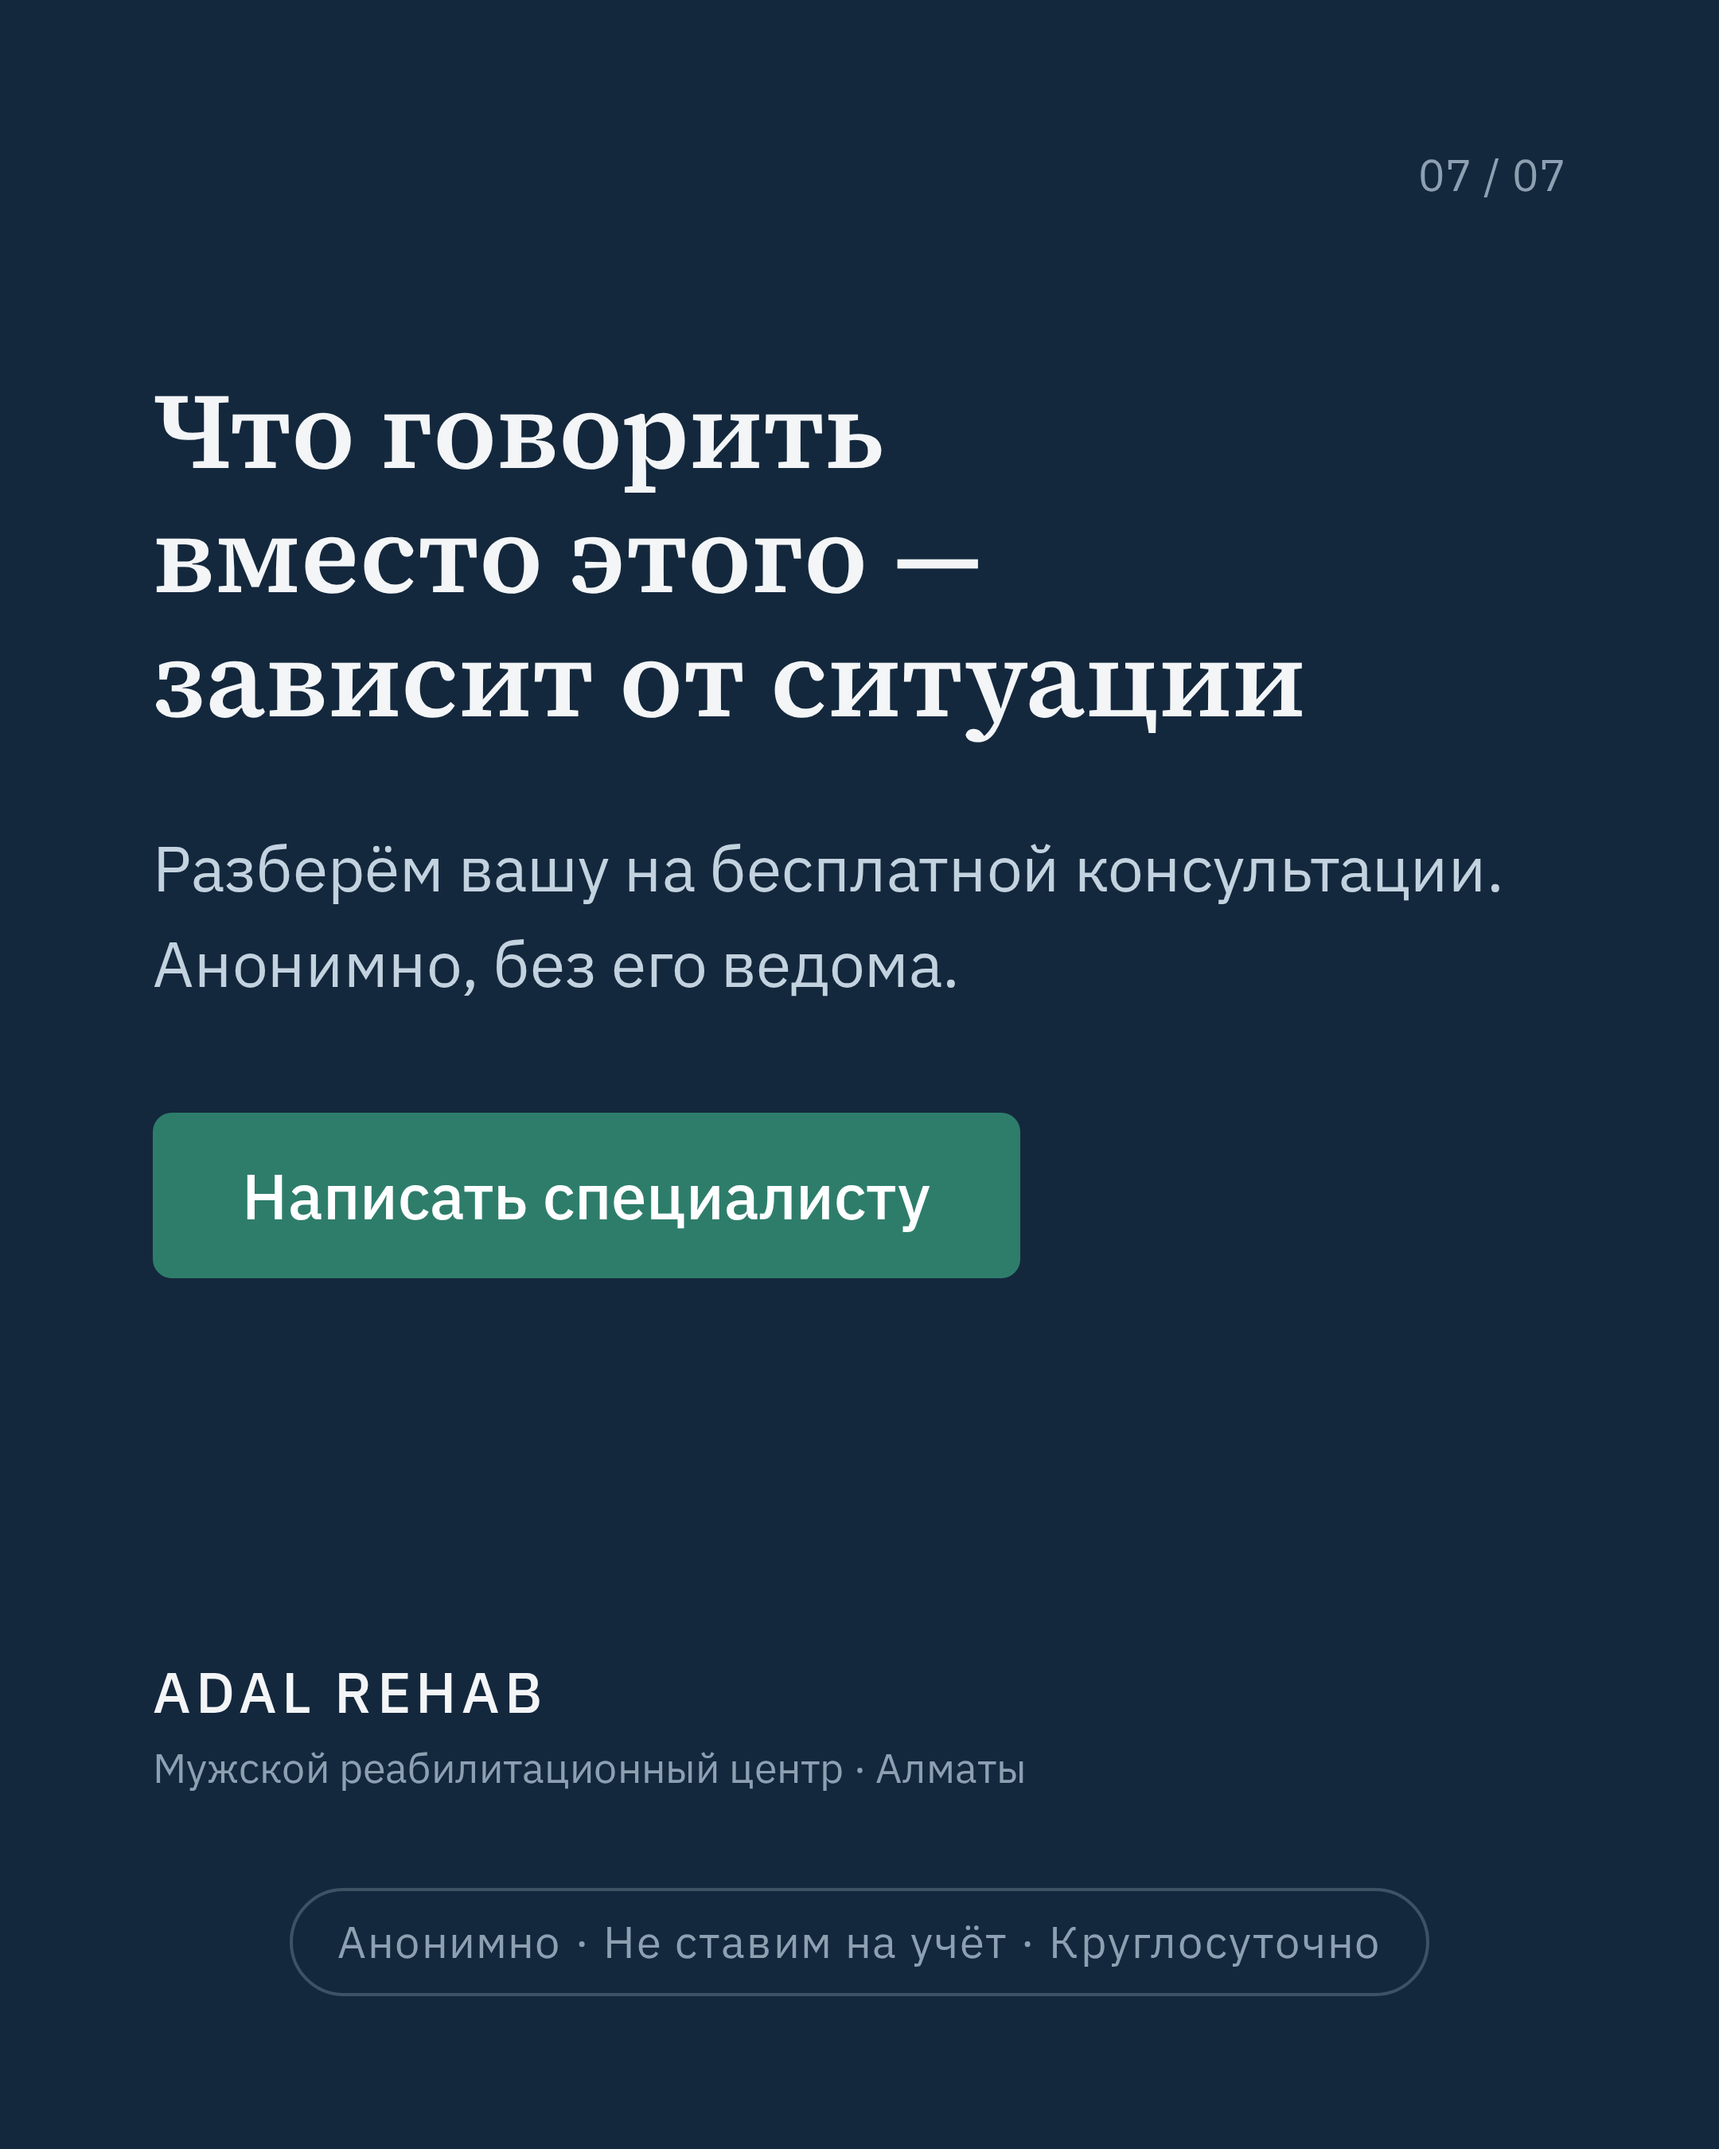
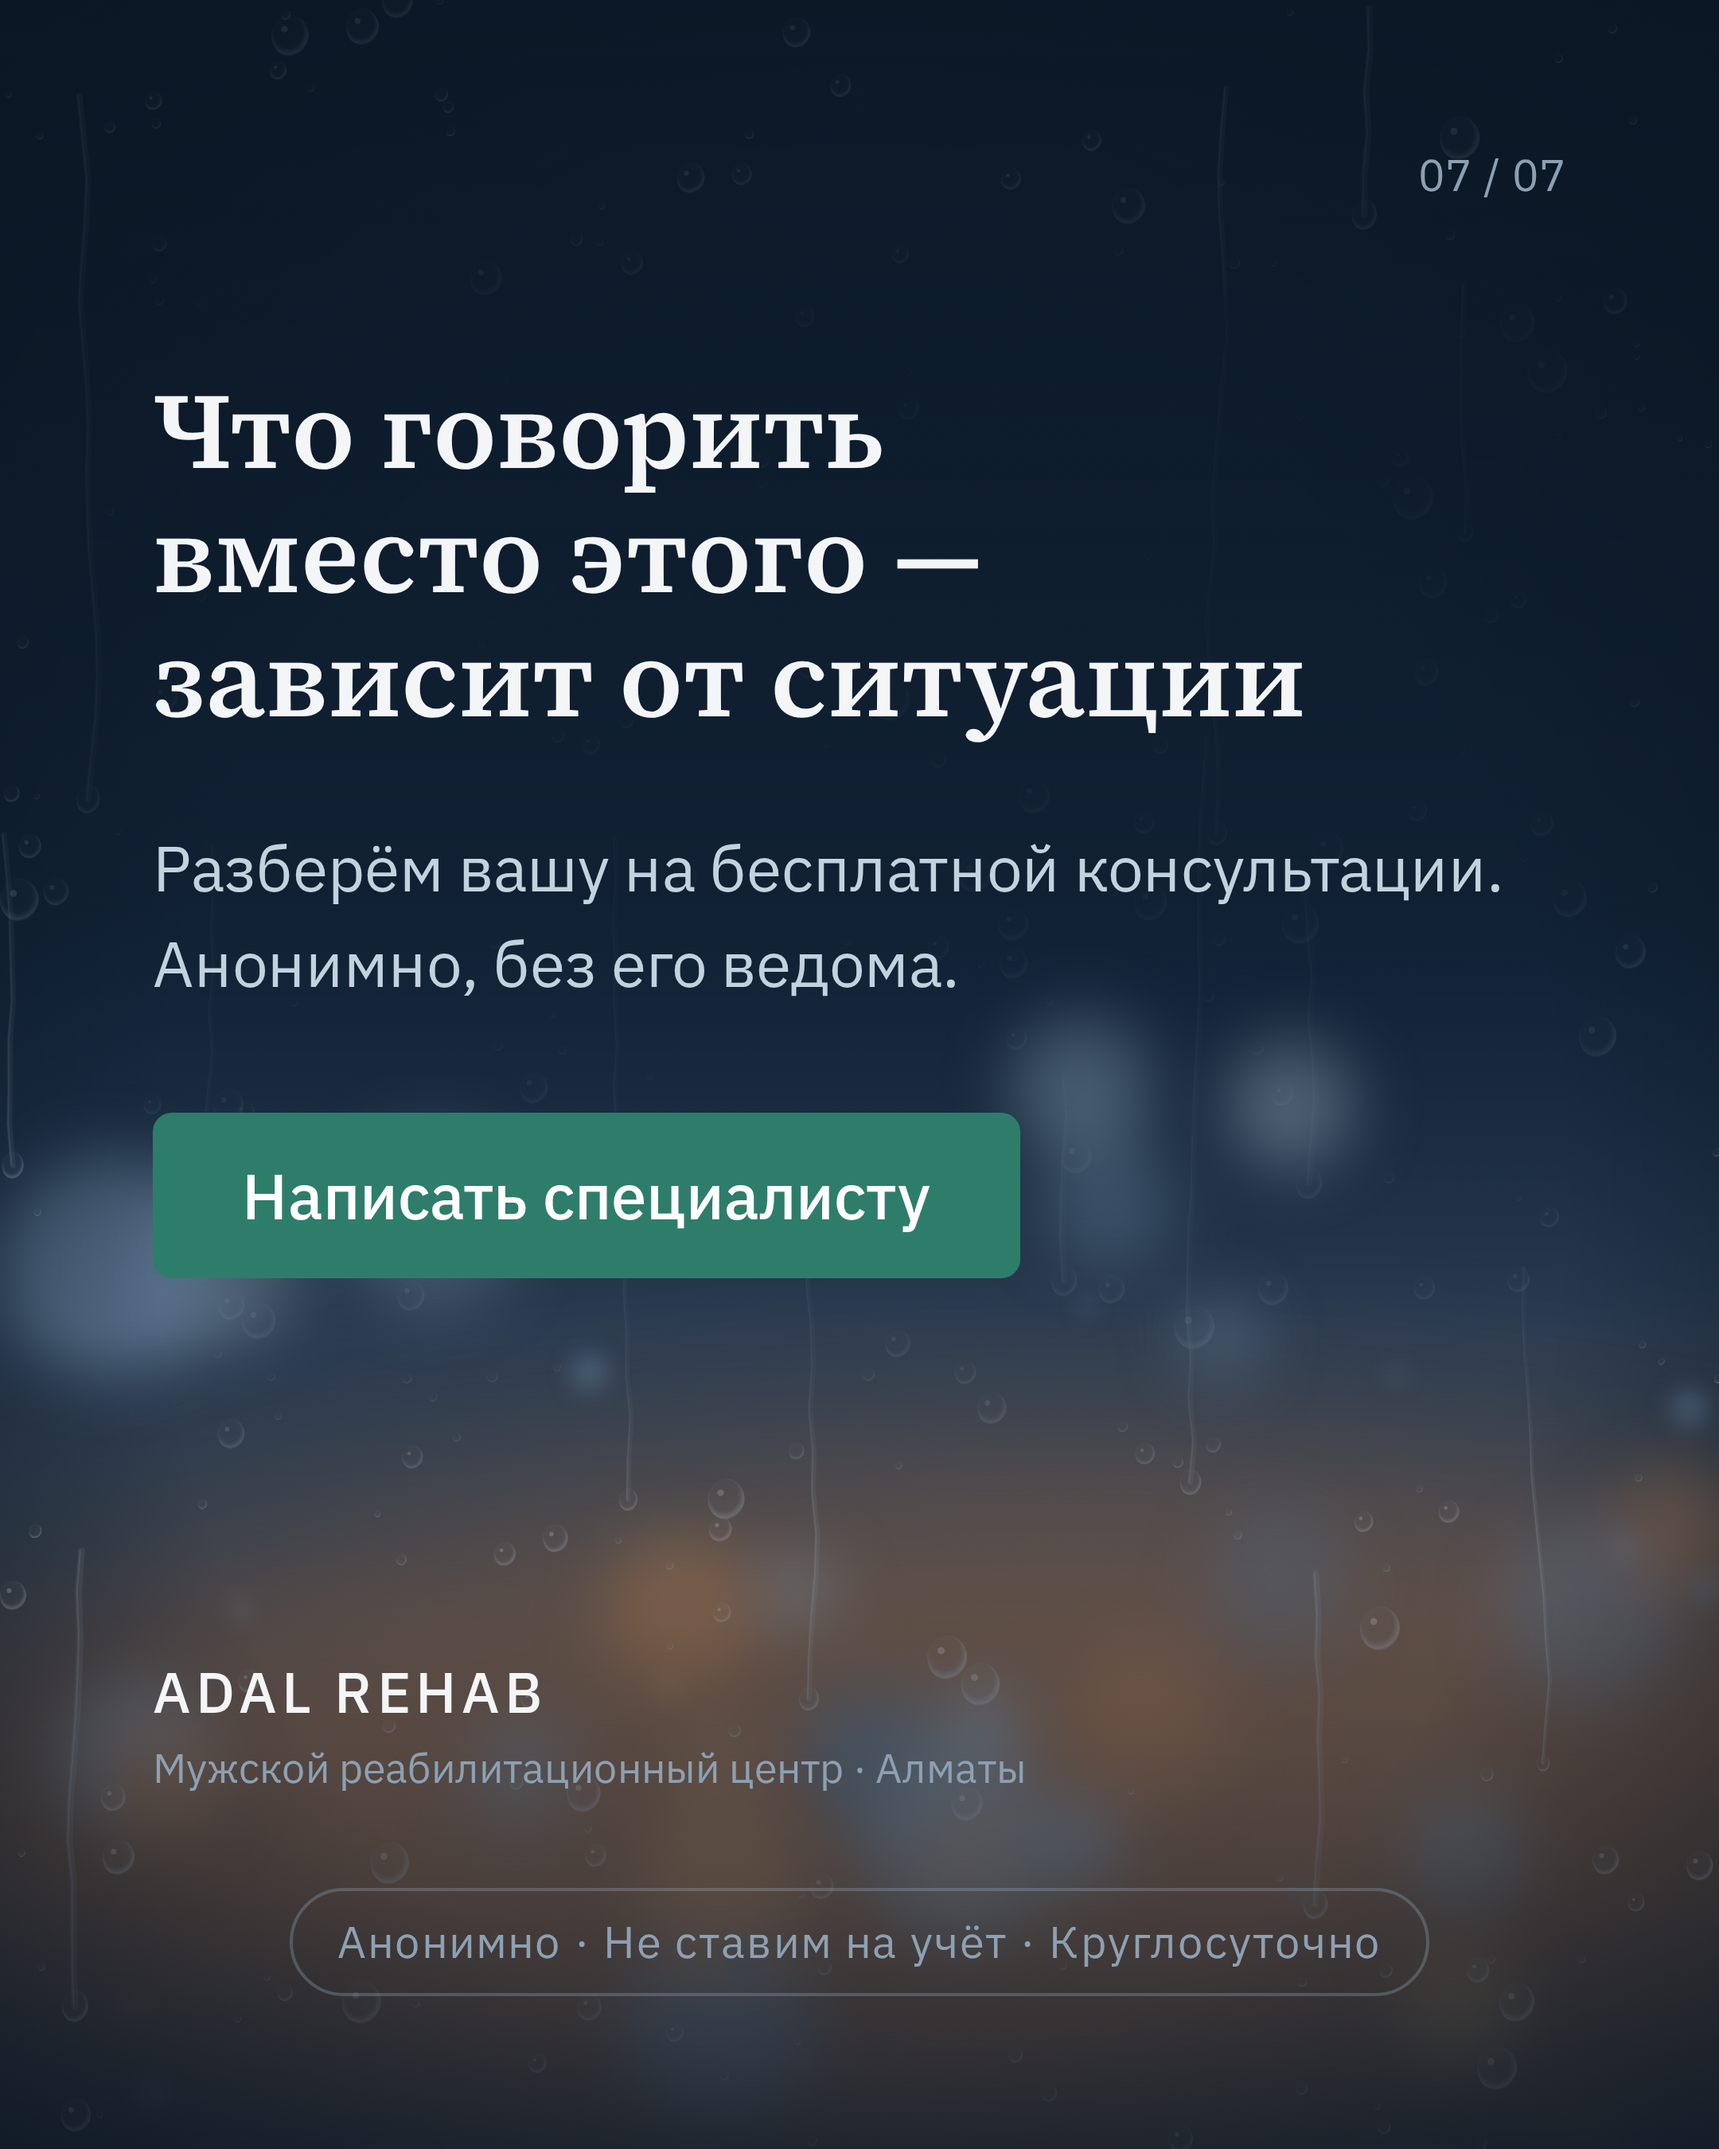
Add rainy-window backgrounds to carousel cover and final slide
Procedural SVG scene (seeded, deterministic): night rain on glass with
blurred city lights on the cover, the same window at dawn on the final
slide. A shade gradient keeps text legible; drops are muted under text.
Optional bg/cover.jpg and bg/final.jpg are layered on top if present.

Claude-Session: https://claude.ai/code/session_011NSwoZ6jb7FAjLnMqCgcPs

diff --git a/adal-rehab-carousel/carousel.html b/adal-rehab-carousel/carousel.html
@@ -149,6 +149,35 @@
     text-wrap: pretty;
   }
 
+
+  /* ---------- Фон-сцена (обложка и финал) ---------- */
+  .scene, .scene__photo, .scene__shade {
+    position: absolute;
+    inset: 0;
+    width: 100%;
+    height: 100%;
+  }
+  .scene svg { display: block; }
+  .scene__photo { object-fit: cover; }
+  /* Затемнение для читаемости: плотнее под текстом сверху и под логотипом снизу */
+  .scene__shade {
+    background: linear-gradient(180deg,
+      rgba(12, 25, 39, 0.80) 0%,
+      rgba(12, 25, 39, 0.62) 42%,
+      rgba(12, 25, 39, 0.12) 64%,
+      rgba(12, 25, 39, 0.28) 84%,
+      rgba(12, 25, 39, 0.70) 100%);
+  }
+  .slide > :not(.scene):not(.scene__shade) { z-index: 1; }
+  .final .scene__shade {
+    background: linear-gradient(180deg,
+      rgba(12, 25, 39, 0.80) 0%,
+      rgba(12, 25, 39, 0.62) 42%,
+      rgba(12, 25, 39, 0.12) 62%,
+      rgba(12, 25, 39, 0.45) 78%,
+      rgba(12, 25, 39, 0.82) 100%);
+  }
+
   /* Обложка */
   .overline {
     font-size: 32px;
@@ -195,6 +224,10 @@
 
 <!-- 01 · Обложка -->
 <section class="slide slide--dark cover" id="slide-01">
+  <div class="scene" data-scene="night">
+    <img class="scene__photo" src="bg/cover.jpg" alt="" onerror="this.remove()">
+  </div>
+  <div class="scene__shade"></div>
   <div class="content">
     <p class="overline">Когда в семье зависимость</p>
     <h1 class="h-cover">«Возьми себя в&nbsp;руки»</h1>
@@ -262,6 +295,10 @@
 
 <!-- 07 · Финал -->
 <section class="slide slide--dark final" id="slide-07">
+  <div class="scene" data-scene="dawn">
+    <img class="scene__photo" src="bg/final.jpg" alt="" onerror="this.remove()">
+  </div>
+  <div class="scene__shade"></div>
   <div class="pager">07 / 07</div>
   <div class="content">
     <h2 class="h-slide">Что говорить вместо этого&nbsp;— зависит от&nbsp;ситуации</h2>
@@ -277,5 +314,141 @@
   <div class="badge">Анонимно · Не ставим на учёт · Круглосуточно</div>
 </section>
 
+
+<script>
+/* Фон обложки и финала: окно в дождь. Ночь — ожидание, рассвет — надежда.
+   Генерируется детерминированно (фиксированный seed), каждый рендер одинаковый.
+   Если рядом лежит bg/cover.jpg или bg/final.jpg — фото ложится поверх. */
+(function () {
+  const W = 1080, H = 1350;
+
+  function rng(seed) {
+    return function () {
+      seed = (seed + 0x6D2B79F5) | 0;
+      let t = Math.imul(seed ^ (seed >>> 15), 1 | seed);
+      t = (t + Math.imul(t ^ (t >>> 7), 61 | t)) ^ t;
+      return ((t ^ (t >>> 14)) >>> 0) / 4294967296;
+    };
+  }
+
+  const SCENES = {
+    night: {
+      seed: 7,
+      sky: [[0, '#0A1624'], [0.55, '#10223A'], [1, '#162B42']],
+      glow: null,
+      textZone: [150, 780],
+      lights: 54,
+      warm: ['#E3A25E', '#D48A4A', '#F0C27A'],
+      cool: ['#5F84A8', '#7FA3C4', '#4E7392'],
+      warmShare: 0.55,
+      drops: 380,
+      streaks: 22,
+    },
+    dawn: {
+      seed: 11,
+      sky: [[0, '#0E1F33'], [0.45, '#1A3049'], [0.72, '#3A4A5E'], [0.88, '#6E6060'], [1, '#4B4753']],
+      glow: '#D8905A',
+      textZone: [150, 920],
+      lights: 30,
+      warm: ['#E8B77E', '#D9975F'],
+      cool: ['#8FA9C2', '#A9BCCD', '#6F8EAB'],
+      warmShare: 0.35,
+      drops: 260,
+      streaks: 14,
+    },
+  };
+
+  function build(name) {
+    const c = SCENES[name], r = rng(c.seed), id = (x) => `${name}-${x}`;
+    const pick = (a) => a[Math.floor(r() * a.length)];
+    const out = [];
+
+    out.push(`<svg xmlns="http://www.w3.org/2000/svg" width="${W}" height="${H}" viewBox="0 0 ${W} ${H}">`);
+    out.push('<defs>');
+    out.push(`<linearGradient id="${id('sky')}" x1="0" y1="0" x2="0" y2="1">` +
+      c.sky.map(([o, col]) => `<stop offset="${o}" stop-color="${col}"/>`).join('') + '</linearGradient>');
+    out.push(`<filter id="${id('bokeh')}" x="-50%" y="-50%" width="200%" height="200%"><feGaussianBlur stdDeviation="20"/></filter>`);
+    out.push(`<filter id="${id('soft')}" x="-50%" y="-50%" width="200%" height="200%"><feGaussianBlur stdDeviation="7"/></filter>`);
+    out.push(`<filter id="${id('glow')}" x="-50%" y="-50%" width="200%" height="200%"><feGaussianBlur stdDeviation="70"/></filter>`);
+    out.push(`<radialGradient id="${id('drop')}" cx="0.45" cy="0.4" r="0.6">` +
+      '<stop offset="0" stop-color="#FFFFFF" stop-opacity="0.02"/>' +
+      '<stop offset="0.65" stop-color="#C9D8E6" stop-opacity="0.06"/>' +
+      '<stop offset="0.9" stop-color="#E4EDF5" stop-opacity="0.38"/>' +
+      '<stop offset="1" stop-color="#FFFFFF" stop-opacity="0"/></radialGradient>');
+    out.push(`<radialGradient id="${id('vig')}" cx="0.5" cy="0.55" r="0.75">` +
+      '<stop offset="0.55" stop-color="#050C14" stop-opacity="0"/>' +
+      '<stop offset="1" stop-color="#050C14" stop-opacity="0.7"/></radialGradient>');
+    const [zt, zb] = c.textZone;
+    out.push(`<filter id="${id('feather')}" x="-20%" y="-20%" width="140%" height="140%"><feGaussianBlur stdDeviation="40"/></filter>`);
+    out.push(`<mask id="${id('calm')}" maskUnits="userSpaceOnUse" x="0" y="0" width="${W}" height="${H}">` +
+      `<rect width="${W}" height="${H}" fill="#FFFFFF"/>` +
+      `<rect x="40" y="${zt}" width="${W - 80}" height="${zb - zt}" fill="#3A3A3A" filter="url(#${id('feather')})"/></mask>`);
+    out.push('</defs>');
+
+    out.push(`<rect width="${W}" height="${H}" fill="url(#${id('sky')})"/>`);
+    if (c.glow) {
+      out.push(`<ellipse cx="${W * 0.62}" cy="${H * 0.86}" rx="760" ry="230" fill="${c.glow}" opacity="0.6" filter="url(#${id('glow')})"/>`);
+    }
+
+    // Огни города за стеклом: в основном в нижней половине
+    out.push(`<g filter="url(#${id('bokeh')})">`);
+    for (let i = 0; i < c.lights; i++) {
+      const x = r() * W;
+      const y = H * (0.5 + Math.pow(r(), 0.7) * 0.5);
+      const rad = 18 + r() * 52;
+      const col = r() < c.warmShare ? pick(c.warm) : pick(c.cool);
+      out.push(`<circle cx="${x.toFixed(1)}" cy="${y.toFixed(1)}" r="${rad.toFixed(1)}" fill="${col}" opacity="${(0.3 + r() * 0.5).toFixed(2)}"/>`);
+    }
+    out.push('</g>');
+    out.push(`<g filter="url(#${id('soft')})">`);
+    for (let i = 0; i < c.lights * 0.5; i++) {
+      const x = r() * W, y = H * (0.6 + r() * 0.4), rad = 4 + r() * 9;
+      const col = r() < c.warmShare ? pick(c.warm) : pick(c.cool);
+      out.push(`<circle cx="${x.toFixed(1)}" cy="${y.toFixed(1)}" r="${rad.toFixed(1)}" fill="${col}" opacity="${(0.25 + r() * 0.4).toFixed(2)}"/>`);
+    }
+    out.push('</g>');
+
+    out.push(`<rect width="${W}" height="${H}" fill="url(#${id('vig')})"/>`);
+
+    // Капли на стекле (под текстом приглушены маской)
+    out.push(`<g mask="url(#${id('calm')})">`);
+    for (let i = 0; i < c.drops; i++) {
+      const x = r() * W, y = r() * H;
+      const rad = 2 + Math.pow(r(), 2.2) * 11;
+      out.push(`<ellipse cx="${x.toFixed(1)}" cy="${y.toFixed(1)}" rx="${rad.toFixed(1)}" ry="${(rad * 1.12).toFixed(1)}" fill="url(#${id('drop')})"/>`);
+      if (rad > 5) {
+        out.push(`<circle cx="${(x - rad * 0.3).toFixed(1)}" cy="${(y - rad * 0.35).toFixed(1)}" r="${(rad * 0.18).toFixed(1)}" fill="#FFFFFF" opacity="0.35"/>`);
+      }
+    }
+    out.push('</g>');
+
+    // Стекающие дорожки
+    out.push(`<g fill="none" stroke-linecap="round" stroke-linejoin="round" mask="url(#${id('calm')})">`);
+    for (let i = 0; i < c.streaks; i++) {
+      let x = r() * W, y = r() * H * 0.8;
+      const len = 90 + r() * 380;
+      const pts = [[x, y]];
+      for (let d = 0; d < len; d += 26) {
+        x += (r() - 0.5) * 6; y += 26;
+        pts.push([x, y]);
+      }
+      const dPath = 'M' + pts.map((p) => p[0].toFixed(1) + ' ' + p[1].toFixed(1)).join(' L');
+      const w = 2 + r() * 2.5;
+      out.push(`<path d="${dPath}" stroke="#C9D8E6" stroke-opacity="0.13" stroke-width="${w.toFixed(1)}"/>`);
+      out.push(`<path d="${dPath}" stroke="#FFFFFF" stroke-opacity="0.16" stroke-width="1" transform="translate(-0.8 0)"/>`);
+      const end = pts[pts.length - 1], er = w * 1.9;
+      out.push(`<ellipse cx="${end[0].toFixed(1)}" cy="${end[1].toFixed(1)}" rx="${er.toFixed(1)}" ry="${(er * 1.25).toFixed(1)}" fill="url(#${id('drop')})"/>`);
+    }
+    out.push('</g>');
+
+    out.push('</svg>');
+    return out.join('');
+  }
+
+  document.querySelectorAll('.scene[data-scene]').forEach((el) => {
+    el.insertAdjacentHTML('afterbegin', build(el.dataset.scene));
+  });
+})();
+</script>
 </body>
 </html>
